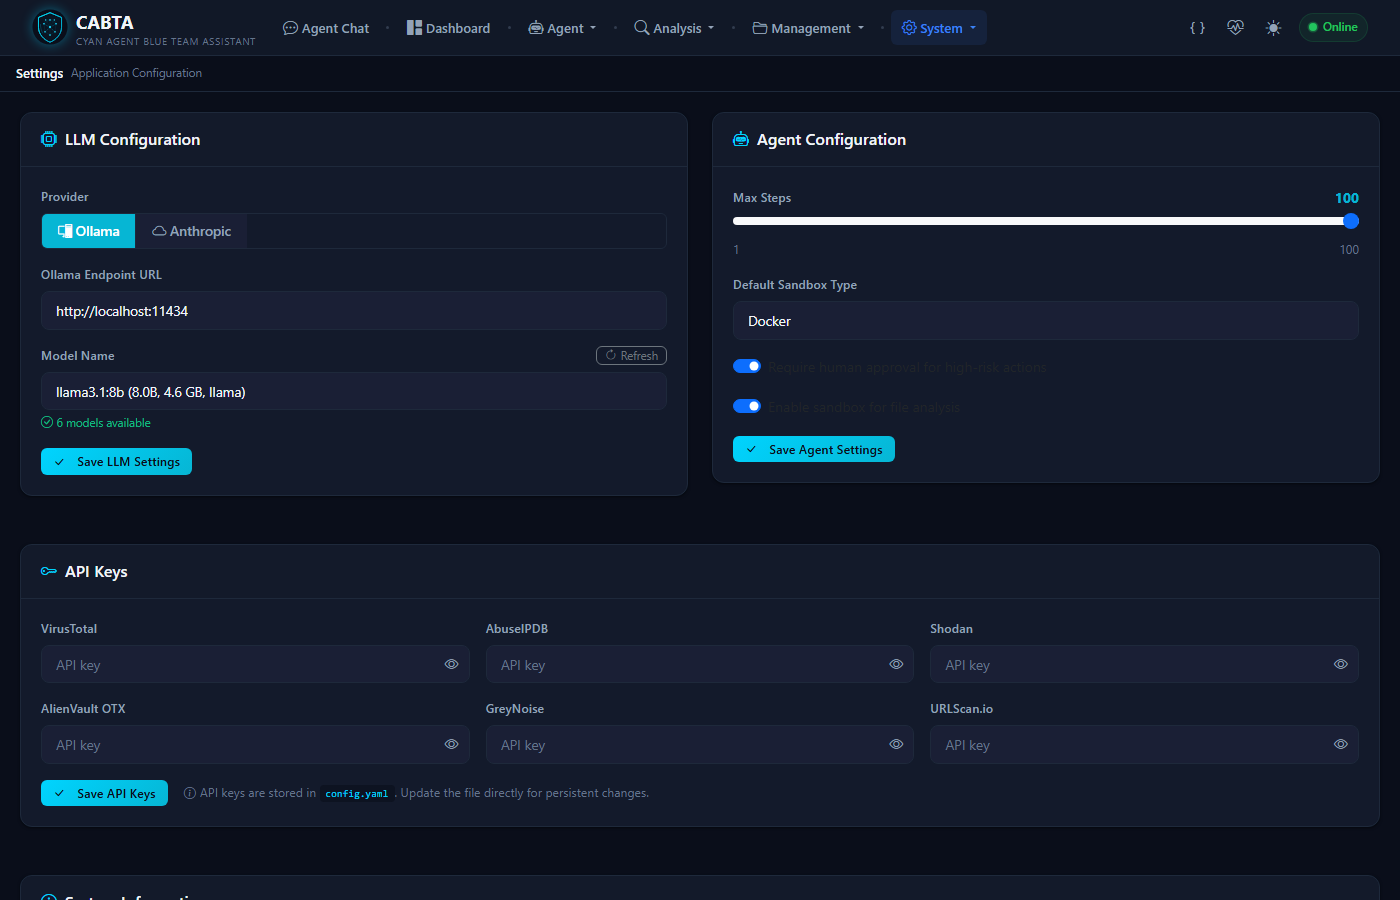
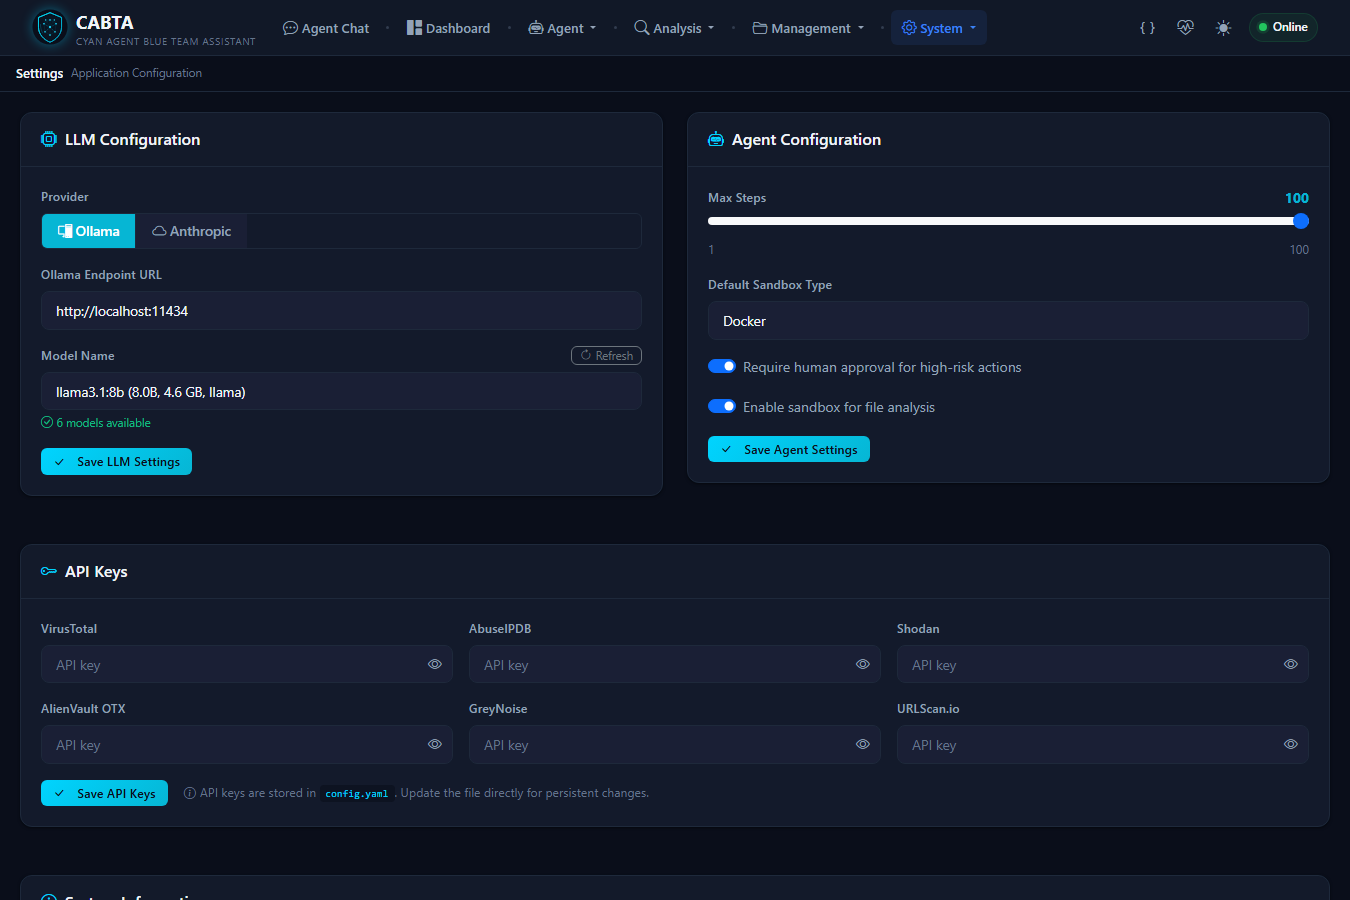
Fix dark mode text readability and update screenshots
- Add dark mode CSS overrides for Bootstrap text-dark, source names, labels, badges
- Fix unreadable text on dark backgrounds across dashboard, file analysis, email, IOC, settings
- Source names, engine categories, form labels, descriptions now properly visible in dark mode
- Retake all screenshots with corrected dark theme

diff --git a/static/css/themes.css b/static/css/themes.css
@@ -1593,3 +1593,79 @@ textarea.form-control {
         border: 1px solid #ddd;
     }
 }
+
+
+/* =================================================================
+   32. Dark Mode - Bootstrap Override Fixes
+   Ensures all text is readable on dark backgrounds
+   ================================================================= */
+[data-theme="dark"] .text-dark,
+[data-theme="dark"] .text-body {
+    color: var(--text-primary) !important;
+}
+
+[data-theme="dark"] .form-check-label,
+[data-theme="dark"] .form-label {
+    color: var(--text-secondary) !important;
+}
+
+[data-theme="dark"] .source-name,
+[data-theme="dark"] .source-item {
+    color: var(--text-secondary) !important;
+}
+
+[data-theme="dark"] .engine-cat,
+[data-theme="dark"] .engine-status {
+    color: var(--text-secondary) !important;
+}
+
+[data-theme="dark"] .ph-title,
+[data-theme="dark"] .ph-desc {
+    color: var(--text-secondary) !important;
+}
+
+[data-theme="dark"] .nav-section-label {
+    color: var(--text-muted) !important;
+}
+
+[data-theme="dark"] strong,
+[data-theme="dark"] b {
+    color: var(--text-primary);
+}
+
+[data-theme="dark"] .badge.text-dark {
+    color: var(--text-primary) !important;
+}
+
+[data-theme="dark"] p,
+[data-theme="dark"] span,
+[data-theme="dark"] div,
+[data-theme="dark"] label {
+    color: inherit;
+}
+
+/* Force all direct text children in dark mode to be readable */
+[data-theme="dark"] .card-body,
+[data-theme="dark"] .card-header,
+[data-theme="dark"] .card-footer {
+    color: var(--text-primary);
+}
+
+[data-theme="dark"] .drop-zone-enhanced,
+[data-theme="dark"] .drop-zone-enhanced p,
+[data-theme="dark"] .drop-zone-enhanced span {
+    color: var(--text-secondary);
+}
+
+[data-theme="dark"] .cap-group-label {
+    color: var(--text-muted) !important;
+}
+
+/* Bootstrap text utilities override for dark mode */
+[data-theme="dark"] .text-muted {
+    color: var(--text-muted) !important;
+}
+
+[data-theme="dark"] .text-secondary {
+    color: var(--text-secondary) !important;
+}
